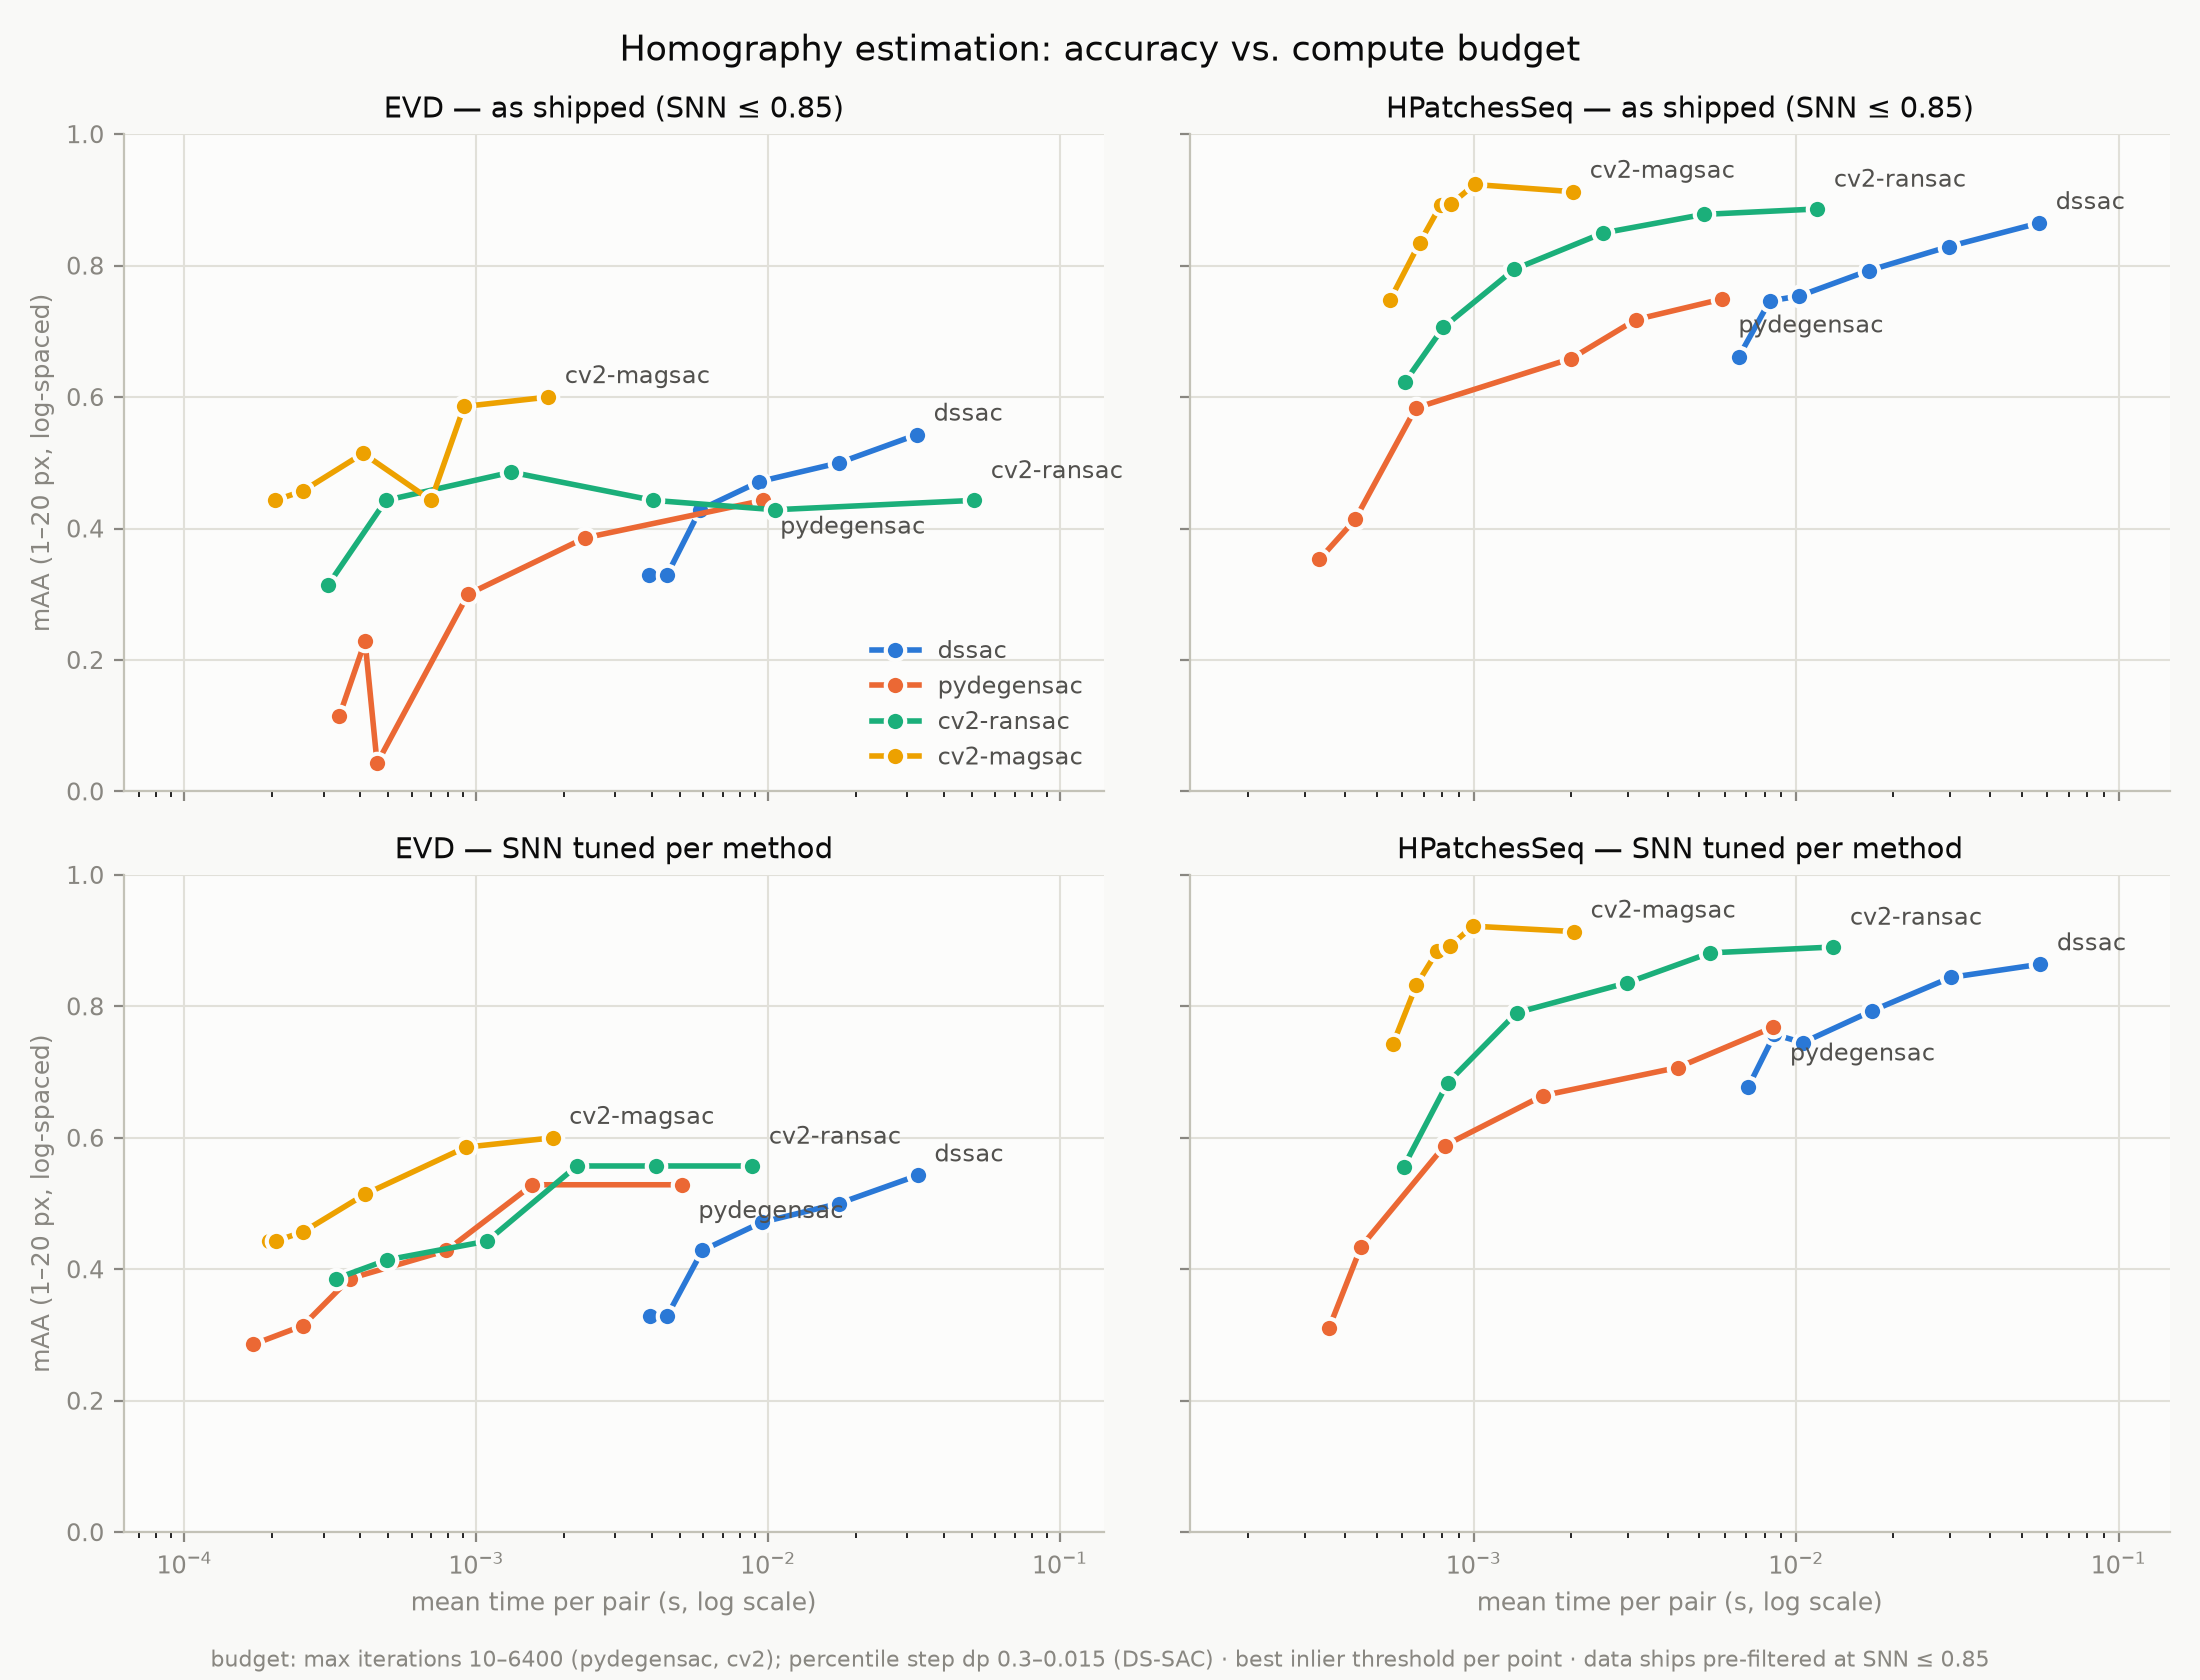
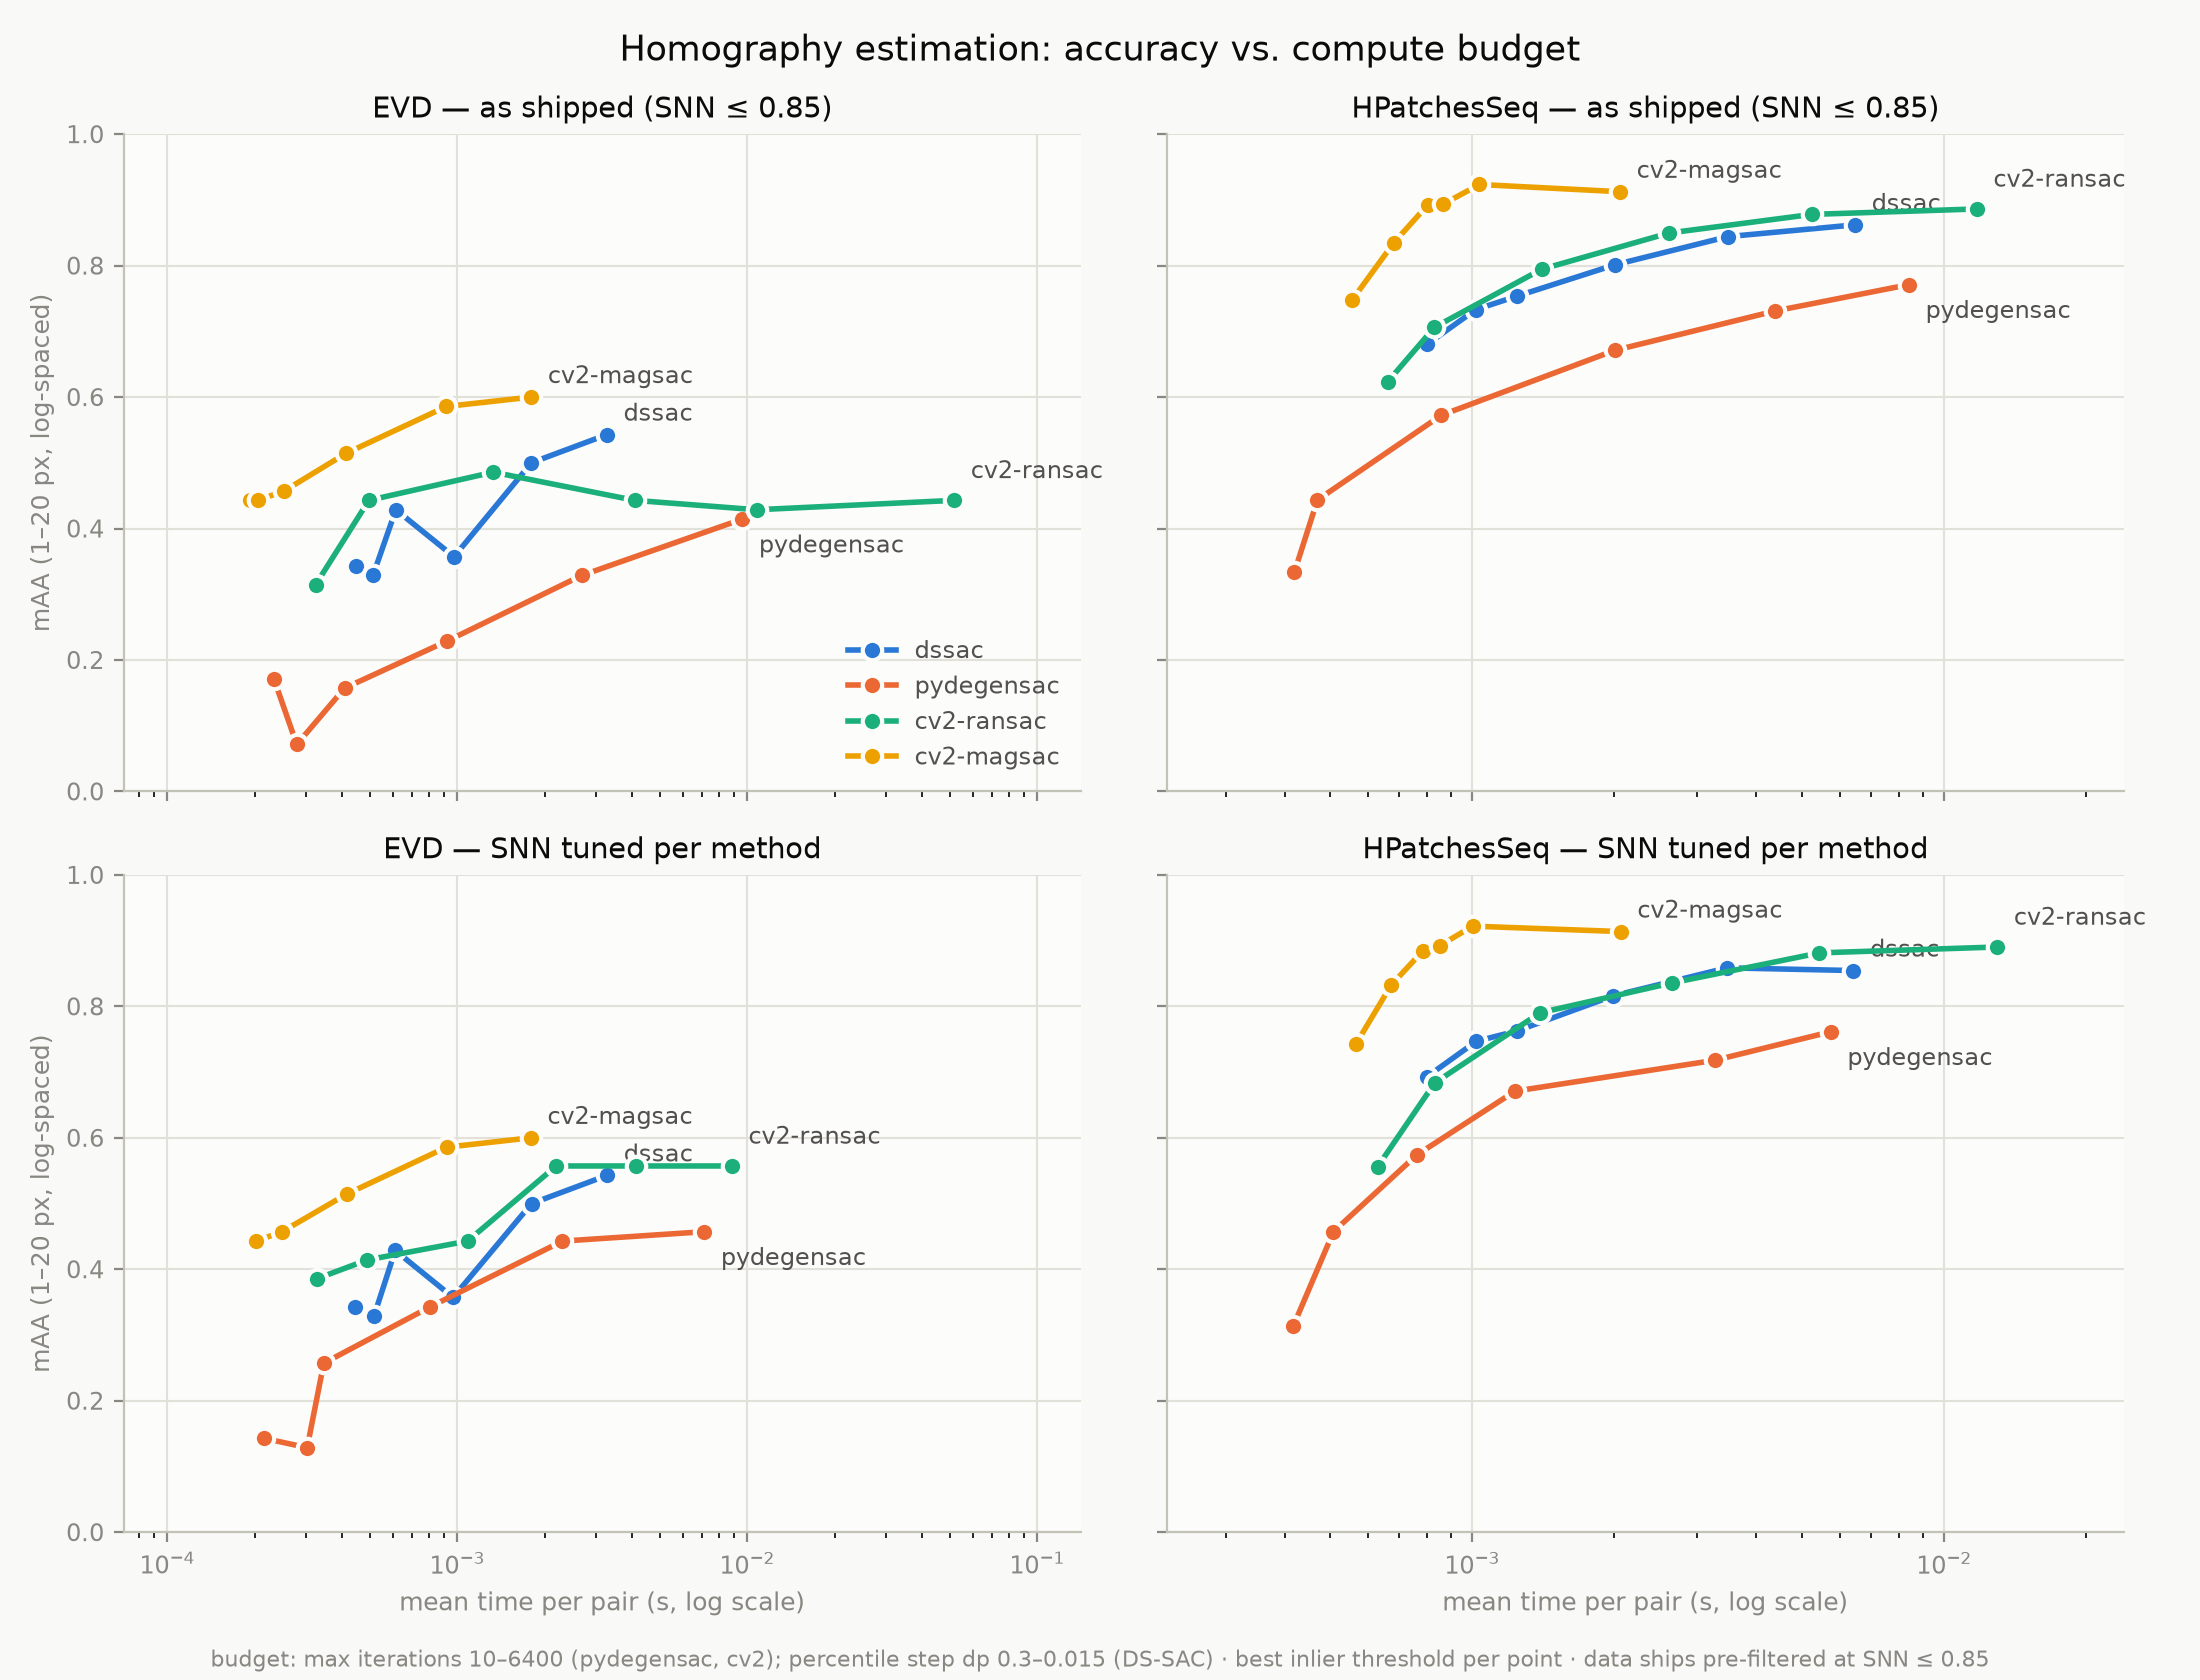
docs: refresh benchmark results and figure for numba backend

diff --git a/README.md b/README.md
@@ -18,10 +18,11 @@ pass refits the global-best model on inlier sets at relaxed-to-strict thresholds
 ## Install
 
 ```bash
-pip install -e .
+pip install -e .          # pure NumPy (the only runtime dependency)
+pip install -e ".[fast]"  # + numba/scipy fast backend, ~9x faster
 ```
 
-Runtime dependency: `numpy` only. Requires Python >= 3.10.
+Requires Python >= 3.10.
 
 ## Usage
 
@@ -43,6 +44,11 @@ Parameters:
   partition a recursive split must retain to be searched further.
 - `post_tuning_ks` (default `(3, 2, 1.5, 1)`): multipliers of `threshold` used by the
   relaxed-to-strict post-tuning refit chain.
+- `backend` (default `"auto"`): `"numba"` (fused nopython kernels, used automatically when
+  numba is installed; ~2–4 ms/pair on the benchmark data after a one-off JIT compile) or
+  `"numpy"` (dependency-free, ~20 ms/pair). Both are deterministic; they can differ in the
+  last floating-point bits, which on bifurcation-sensitive pairs may select a different
+  (equally valid) local optimum.
 
 The estimator is fully deterministic: the same inputs always produce the same output, with no
 random sampling and nothing to seed.
@@ -84,18 +90,21 @@ Best-per-method rows (highest mAA across the threshold sweep), from `results/rep
 Best per method (EVD):
 | method | th (px) | mAA | median err | mean time (s) |
 |---|---|---|---|---|
-| cv2-magsac | 0.5 | 0.5857 | 4.24 | 0.0017 |
-| dssac | 1.0 | 0.5000 | 4.73 | 0.0177 |
-| cv2-ransac | 4.0 | 0.4286 | 5.14 | 0.0126 |
-| pydegensac | 1.0 | 0.4143 | 5.08 | 0.0029 |
+| cv2-magsac | 0.5 | 0.5857 | 4.24 | 0.0011 |
+| dssac | 1.0 | 0.5000 | 4.73 | 0.0018 |
+| cv2-ransac | 4.0 | 0.4286 | 5.14 | 0.0125 |
+| pydegensac | 2.0 | 0.4286 | 4.73 | 0.0024 |
 
 Best per method (HPatchesSeq):
 | method | th (px) | mAA | median err | mean time (s) |
 |---|---|---|---|---|
-| cv2-magsac | 0.5 | 0.9152 | 0.50 | 0.0023 |
-| cv2-ransac | 4.0 | 0.8786 | 0.69 | 0.0059 |
-| dssac | 4.0 | 0.8290 | 0.63 | 0.0303 |
-| pydegensac | 0.5 | 0.7276 | 1.51 | 0.0068 |
+| cv2-magsac | 0.5 | 0.9152 | 0.50 | 0.0022 |
+| cv2-ransac | 4.0 | 0.8786 | 0.69 | 0.0058 |
+| dssac | 4.0 | 0.8441 | 0.60 | 0.0035 |
+| pydegensac | 1.0 | 0.7428 | 1.64 | 0.0034 |
+
+(DS-SAC timings use the numba backend; the pure-NumPy backend is ~9x slower at equal or
+marginally different accuracy — see Implementation notes.)
 
 Full per-threshold tables are in `results/report.md` (regenerated locally, not tracked in git).
 
@@ -109,22 +118,23 @@ then inlier threshold re-tuned at that SNN), from `bench/tune_snn.py`:
 | EVD | cv2-magsac | 0.5 | 0.5857 | 1.0 | 0.5857 | 0.5 | 0.5857 |
 | EVD | cv2-ransac | 4.0 | 0.4286 | 0.75 | 0.5571 | 4.0 | 0.5571 |
 | EVD | dssac | 1.0 | 0.5000 | 1.0 | 0.5000 | 1.0 | 0.5000 |
-| EVD | pydegensac | 1.0 | 0.4286 | 0.7 | 0.5000 | 0.75 | 0.5714 |
+| EVD | pydegensac | 1.0 | 0.4143 | 0.8 | 0.4714 | 1.0 | 0.4714 |
 | HPatchesSeq | cv2-magsac | 0.5 | 0.9152 | 0.85 | 0.9166 | 0.5 | 0.9166 |
 | HPatchesSeq | cv2-ransac | 4.0 | 0.8786 | 0.7 | 0.8807 | 4.0 | 0.8807 |
-| HPatchesSeq | dssac | 4.0 | 0.8290 | 0.85 | 0.8441 | 4.0 | 0.8441 |
-| HPatchesSeq | pydegensac | 1.0 | 0.7083 | 0.85 | 0.7255 | 0.5 | 0.7276 |
+| HPatchesSeq | dssac | 4.0 | 0.8441 | 0.85 | 0.8586 | 4.0 | 0.8586 |
+| HPatchesSeq | pydegensac | 0.75 | 0.7345 | 1.0 | 0.7345 | 0.75 | 0.7345 |
 
-Takeaways: SNN tuning matters most on EVD, where it lifts pydegensac from 0.43 to **0.57**
-(ahead of DS-SAC's 0.50) and cv2-RANSAC to 0.56; DS-SAC's own optimum on EVD is *no extra
-filtering* — it prefers to see all the correspondences and reject outliers itself. On
-HPatchesSeq the gains are small for every method (the shipped 0.85 pre-filter is already close
-to optimal there).
+Takeaways: SNN tuning matters most on EVD, where it consistently lifts the stochastic
+baselines (cv2-RANSAC 0.43 → 0.56 here; pydegensac gained between 0.06 and 0.14 across our
+runs — on 7 pairs the unseeded baselines vary noticeably run to run, so treat individual EVD
+cells as noisy). DS-SAC's own optimum on EVD is *no extra filtering* — it prefers to see all
+the correspondences and reject outliers itself. On HPatchesSeq the gains are small for every
+method (the shipped 0.85 pre-filter is already close to optimal there).
 
 Caveats:
 
-- DS-SAC here is pure NumPy while all three baselines are compiled C++ (OpenCV, pydegensac); the
-  runtime column is indicative only, not an apples-to-apples speed comparison.
+- DS-SAC timings use the numba backend (JIT-compiled, roughly the same league as the C++
+  baselines); the pure-NumPy backend is ~9x slower. JIT compilation (~5 s, cached) is excluded.
 - The archive's tentative correspondences are already SNN-pre-filtered at ≈ 0.85, so the default
   protocol is not a truly unfiltered regime; the SNN-filtered protocol above tunes the ratio
   further per method.
@@ -143,10 +153,9 @@ Each point is one compute budget — `maxIters` 10–6400 for the RANSAC-family 
 step `dp` 0.3–0.015 for DS-SAC (its natural budget knob, since it is deterministic and has no
 iteration cap) — with x = measured mean runtime per pair and y = the method's best mAA over the
 inlier-threshold sweep at that budget. Top row: correspondences as shipped (SNN ≤ 0.85); bottom
-row: each method at its tuned SNN threshold from `results/best_snn.json`. DS-SAC's runtime is
-flat across inlier thresholds (no confidence-based early exit) and its cheap-budget end is
-bounded below by the partition-tree overhead, so its curve spans a narrower time range than the
-iteration-capped baselines.
+row: each method at its tuned SNN threshold from `results/best_snn.json`. DS-SAC (numba
+backend) now occupies the same time range as the compiled baselines; its runtime is flat
+across inlier thresholds since it has no confidence-based early exit.
 
 Reproduce:
 
@@ -171,6 +180,24 @@ Two points where the paper is underspecified are resolved here as documented ass
   refit (as opposed to the percentile-set refit) is only carried forward into the next round if
   it strictly improves the best-so-far score for that search; otherwise the percentile-refit
   model is kept.
+
+### Performance
+
+Two interchangeable backends implement the identical algorithm:
+
+- **numpy** (`dssac/core.py` + `dssac/homography.py`): dependency-free reference,
+  ~20 ms/pair on the benchmark data (N ≈ 500–1400).
+- **numba** (`dssac/_fast.py`, `pip install dssac[fast]`): the whole pipeline — moment-form
+  normal equations + 9x9 `eigh` for each DLT fit, fused residual/score loops, O(N) percentile
+  selection via `np.partition`, explicit-stack recursive partitioning, post-tuning — as
+  `@njit(cache=True)` kernels: ~2–4 ms/pair, ~9x faster. First call pays ~5 s of JIT
+  compilation (cached on disk afterwards).
+
+Both are deterministic. They may differ in the last floating-point bits (summation order,
+selection tie-breaks), which on a few bifurcation-sensitive pairs flips the search into a
+different local optimum — in our benchmark this slightly *helped* the numba backend
+(HPatchesSeq mAA 0.844 vs 0.829, EVD identical). `bench/perf_check.py` maintains per-backend
+golden outputs for exact regression checks.
 
 See `docs/superpowers/specs/2026-07-23-dssac-homography-design.md` for the full design spec and
 `docs/superpowers/plans/2026-07-23-dssac-homography.md` for the step-by-step implementation plan